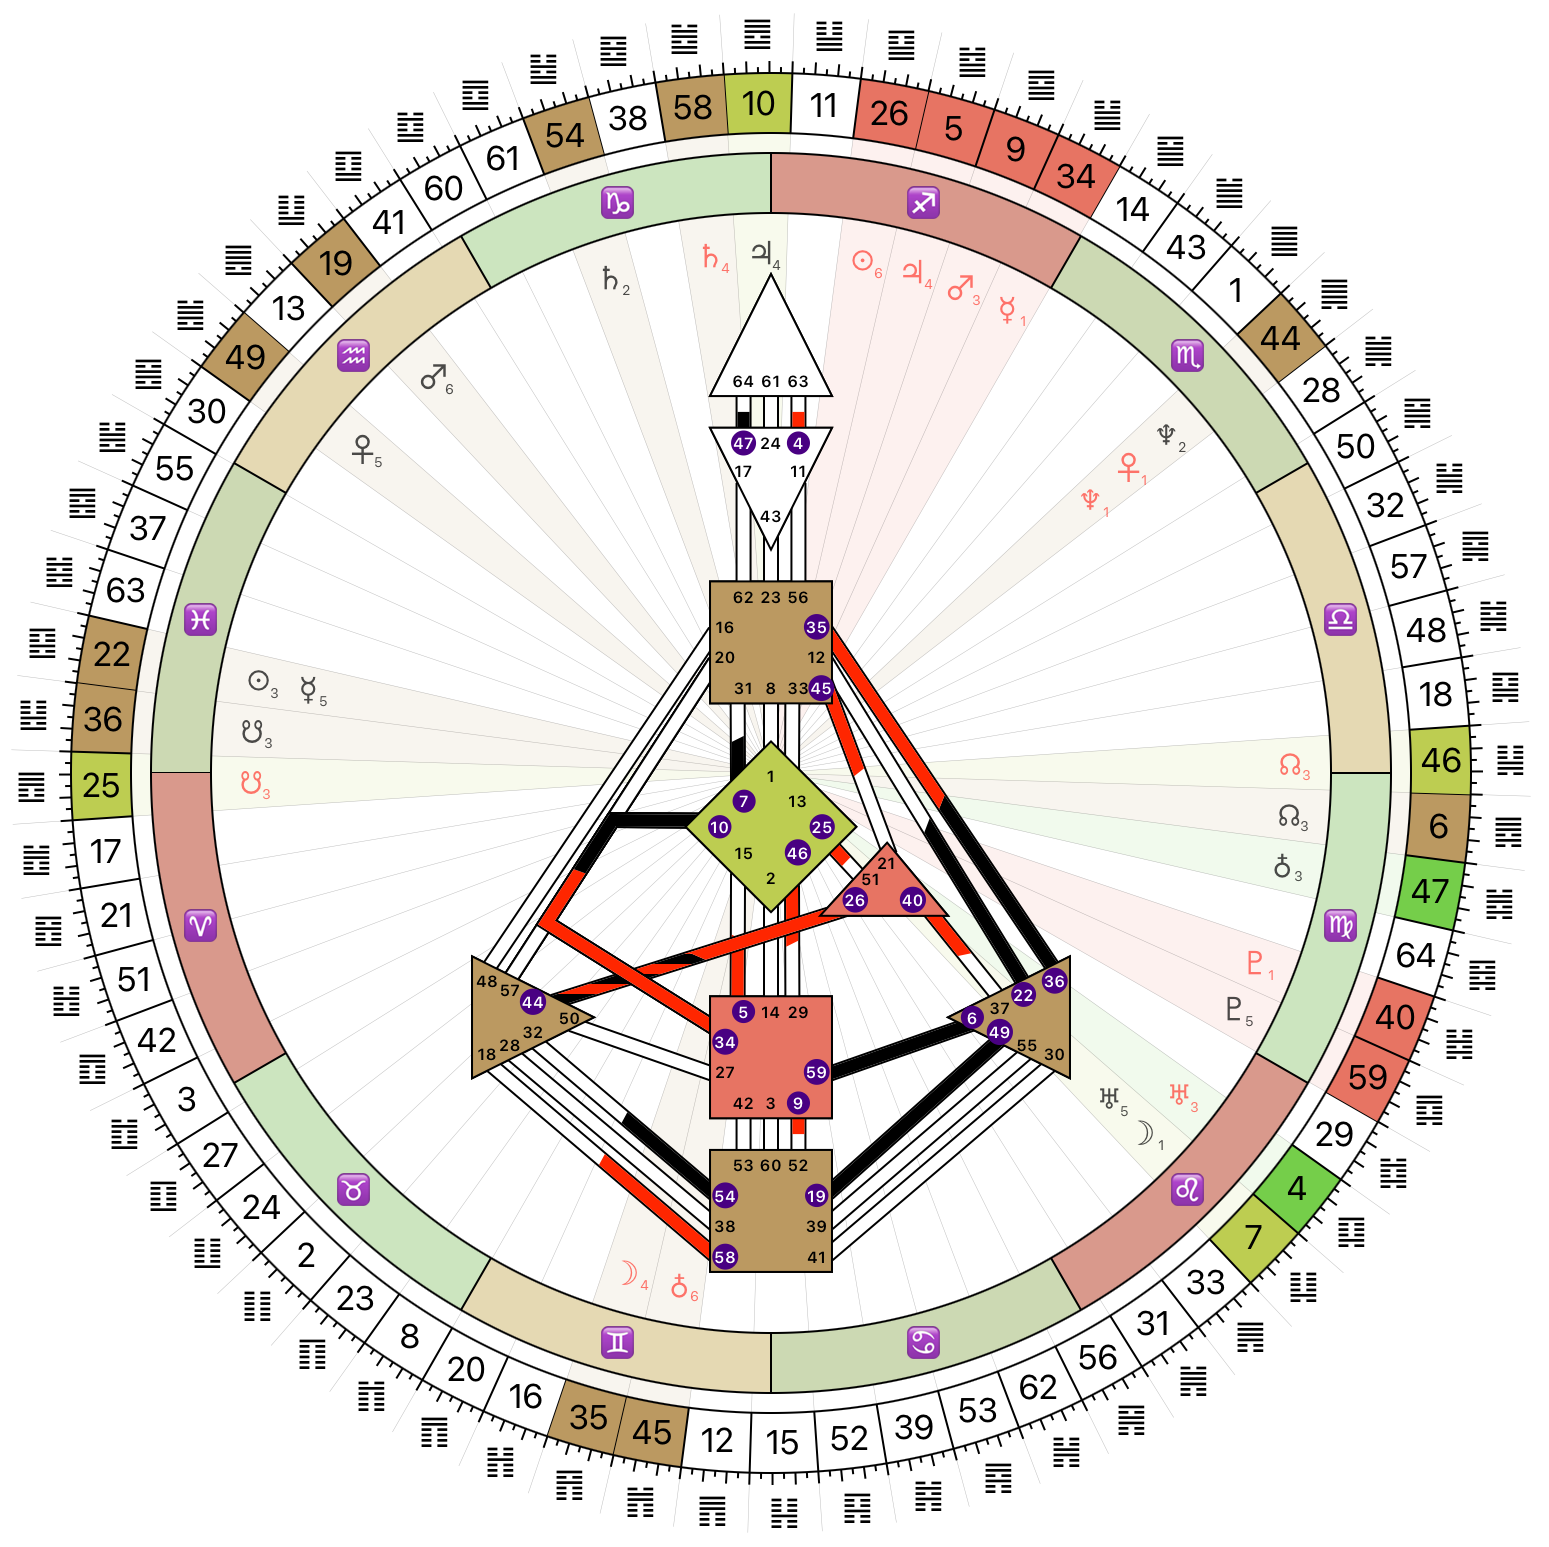
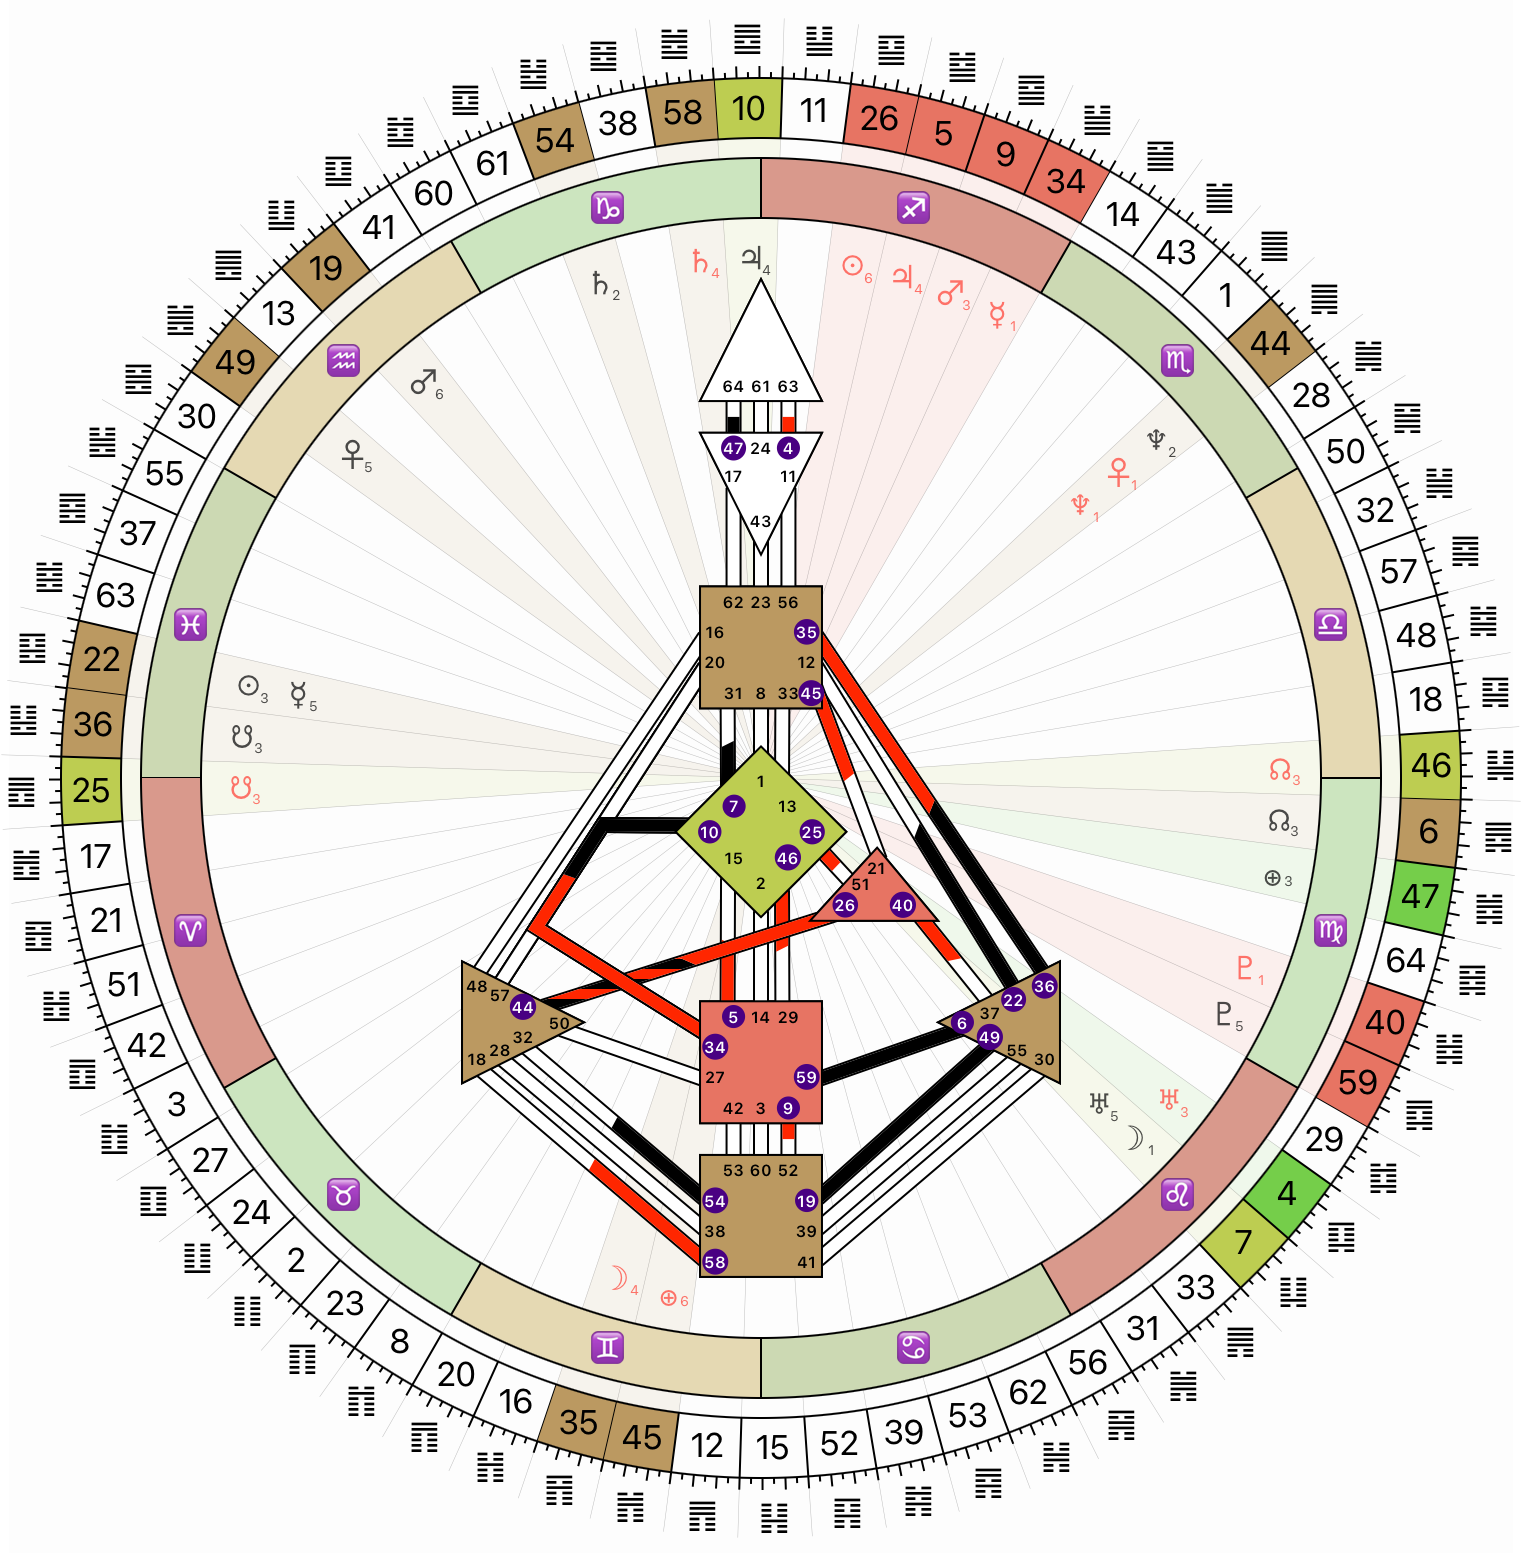
update images

diff --git a/funnel2.ru.md b/funnel2.ru.md
@@ -89,11 +89,11 @@ show_header: false
 
 <!-- <i>Порядок гексаграм только кажется произвольным. В двоичном представлении движение идет по часовой стрелке по возрастанию от гексаграммы 2 ䷁ до 1 ䷀ и зеркально отображается на второй половине колеса</i> -->
 
-Это позволяет нам привязать небесные тела, например, Луну или Солнце, к определённым гексаграммам в любой момент времени. Например, на 7 января 2025 года Луна будет находиться в 50-й гексаграмме, а через несколько часов — уже в 28-й.
+Это позволяет нам привязать небесные тела, например, Луну или Солнце, к определённым гексаграммам в любой момент времени. Например, на 12 января 2025 года Луна будет находиться в 53-й гексаграмме, а через несколько часов — уже в 62-й.
 
-<!-- #### Например, вот "слепок" от 7 января 2025, 02:53 -->
+<!-- #### Например, вот "слепок" от 12 января 2025, 12:40 -->
 
-![Alt text](/assets/images/07.01.2025_02_53.png){: .img}
+![Alt text](/assets/images/2025-01-13_at_12.40.02.png){: .img}
 
 ### Любое небесное тело и гексаграмма И-Цзин связаны через время.
 
